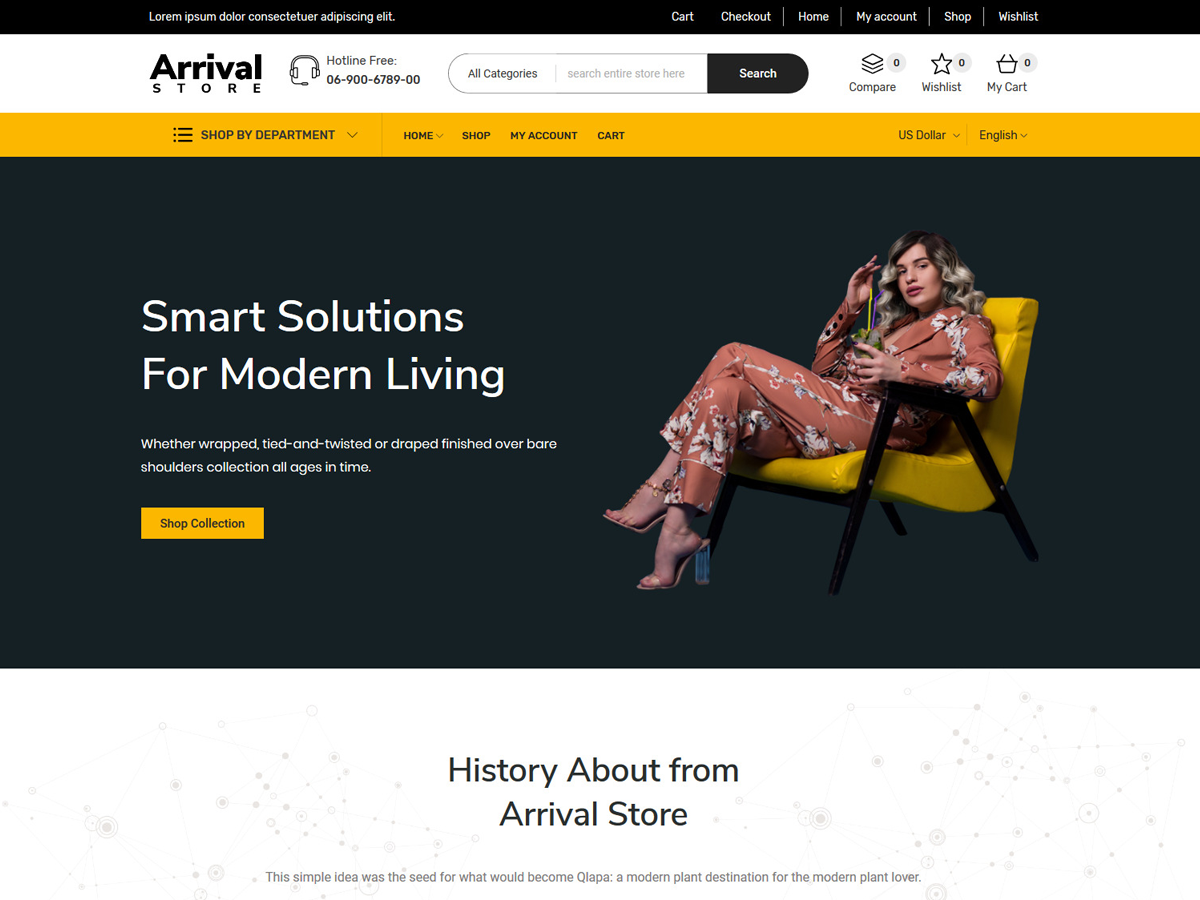
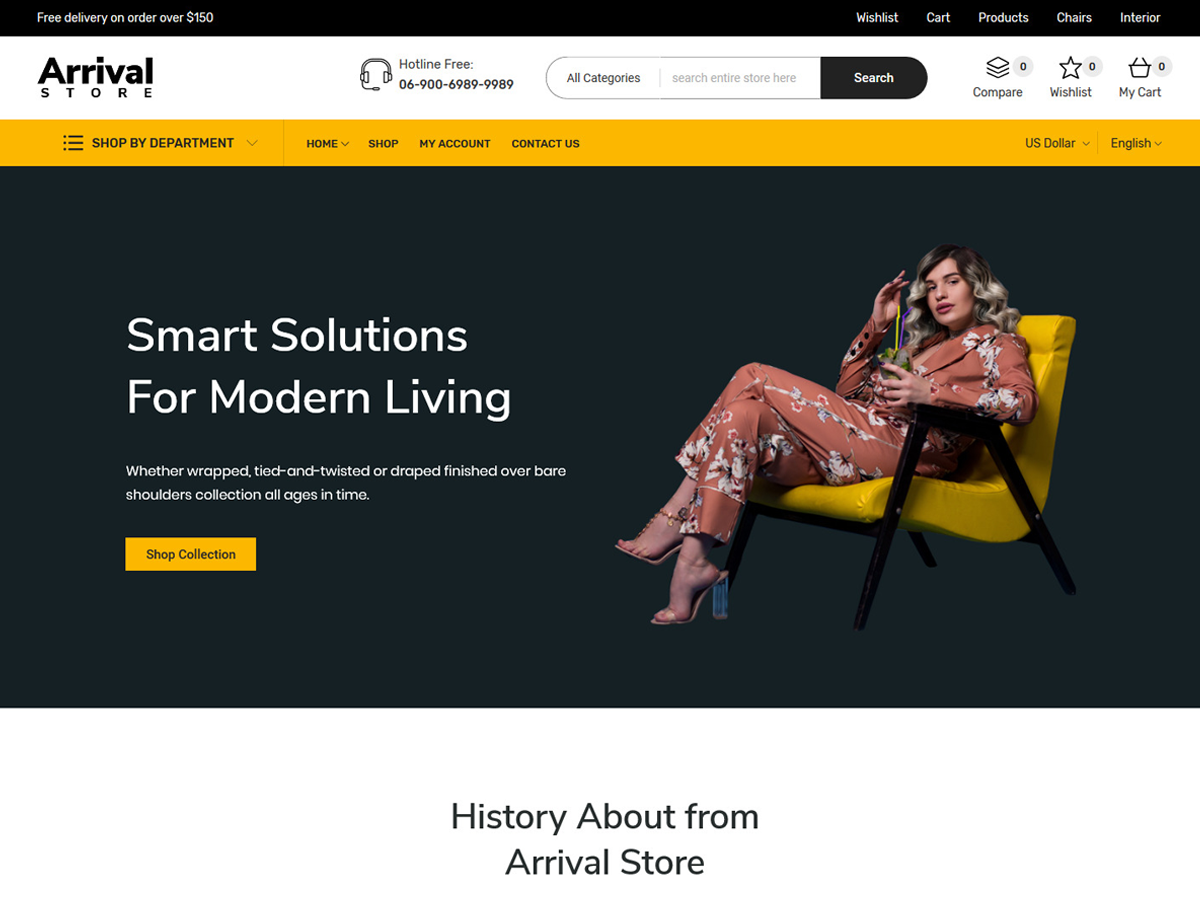
New version of Arrival Store - 1.0.3

diff --git a/assets/js/custom.js b/assets/js/custom.js
@@ -3,4 +3,56 @@ jQuery(document).ready(function ($) {
     $('body').on('click keypress','.browse-category-wrap', function(){
     	$(this).toggleClass('active');
     });
+
+    
+    /**
+    * YITH Wishlist header counter
+    */
+    var arrival_store_update_wishlist_count = function() {
+        $.ajax({
+            beforeSend: function () {
+
+            },
+            complete  : function () {
+
+            },
+            data      : {
+                action: 'arrival_store_update_wishlist_count'
+            },
+            success   : function (data) {
+                $('.site-header .icons-wrapp .wishlist-counter').html(data);
+            },
+
+            url: yith_wcwl_l10n.ajax_url
+        });
+    };
+
+    $('body').on( 'added_to_wishlist removed_from_wishlist', arrival_store_update_wishlist_count );
+
+
+    /**
+    * YITH Compate counter
+    */
+    $('body').on('click', 'a.compare', function (e) {
+    e.preventDefault();
+    var compare = false;
+
+    if ($(this).hasClass('added')) {
+      compare = true;
+    } else if ($(this).closest('.footer-product-button').hasClass('compare-added')) {
+      compare = true;
+    }
+
+    if (compare === false) {
+      var compare_counter = $('.site-header').find('#fs-compare-count').html();
+      compare_counter = parseInt(compare_counter, 10) + 1;
+
+      setTimeout(function () {
+        $('.site-header').find('#fs-compare-count').html(compare_counter);
+      }, 2000);
+
+    }
+  });
+
+
 });

diff --git a/style.css b/style.css
@@ -1,11 +1,11 @@
 /*
  Theme Name:   Arrival Store
  Theme URI:    https://wpoperation.com/themes/arrival-store
- Description:  Arrival Store is a complete eCommerce theme. The theme is extended in ecommerce stores in mind, so you can use it for your online stores and sell your product in style. The theme is fully built for page builders you can use any page builder to customize it according to your need.
+ Description:  Arrival Store is a complete eCommerce theme. The theme is extended in ecommerce stores in mind, so you can use it for your online stores and sell your product in style. With this theme you can create furniture stores, grocery shop, clothes stores, electronic stores etc. The theme is fully built for page builders you can use any page builder to customize it according to your need. The theme is fully compatible with WooCommerce to manage your store. Also it is compatible with all major popular plugins on the market.
  Author:       WPoperation
  Author URI:   http://wpoperation.com/
  Template:     arrival
- Version:      1.0.2
+ Version:      1.0.3
  License:      GNU General Public License v3 or later
  License URI:   http://www.gnu.org/licenses/gpl-3.0.html
  Tags: two-columns, right-sidebar, custom-menu, custom-background, editor-style, translation-ready, full-width-template, flexible-header, sticky-post, theme-options, one-column, e-commerce, blog, photography, threaded-comments, custom-colors

diff --git a/functions.php b/functions.php
@@ -453,7 +453,7 @@ if( ! function_exists('arrival_store_mob_nav')){
 
             <div class="mob-nav-wrapp">
                 <button class="toggle close-wrapp toggle-wrapp">
-                    <span class="text"><?php esc_html_e('Close Menu','arrival'); ?></span>
+                    <span class="text"><?php esc_html_e('Close Menu','arrival-store'); ?></span>
                     <span class="icon-wrapp"><?php echo arrival_get_icon_svg('cross',18); ?></span>
                 </button>
                 <nav arial-label="Mobile" role="navigation" tabindex="1">
@@ -536,5 +536,22 @@ if( ! function_exists('arrival_store_customizer_scripts')){
         wp_enqueue_script( 'arrival-store-customizer', get_theme_file_uri( '/assets/js/customizer-scripts.js' ), array( 'customize-preview' ), '20151215', true );
 
 
+    }
+}
+
+
+/*
+* Ajax function to updat wishlist count
+*/
+add_action( 'wp_ajax_arrival_store_update_wishlist_count', 'arrival_store_update_wishlist_count' );
+add_action( 'wp_ajax_nopriv_arrival_store_update_wishlist_count', 'arrival_store_update_wishlist_count' );
+if( ! function_exists('arrival_store_update_wishlist_count') ){
+    function arrival_store_update_wishlist_count(){
+
+        if( ! function_exists( 'YITH_WCWL' ) )
+            return;
+
+        wp_send_json( YITH_WCWL()->count_products() );
+        
     }
 }
